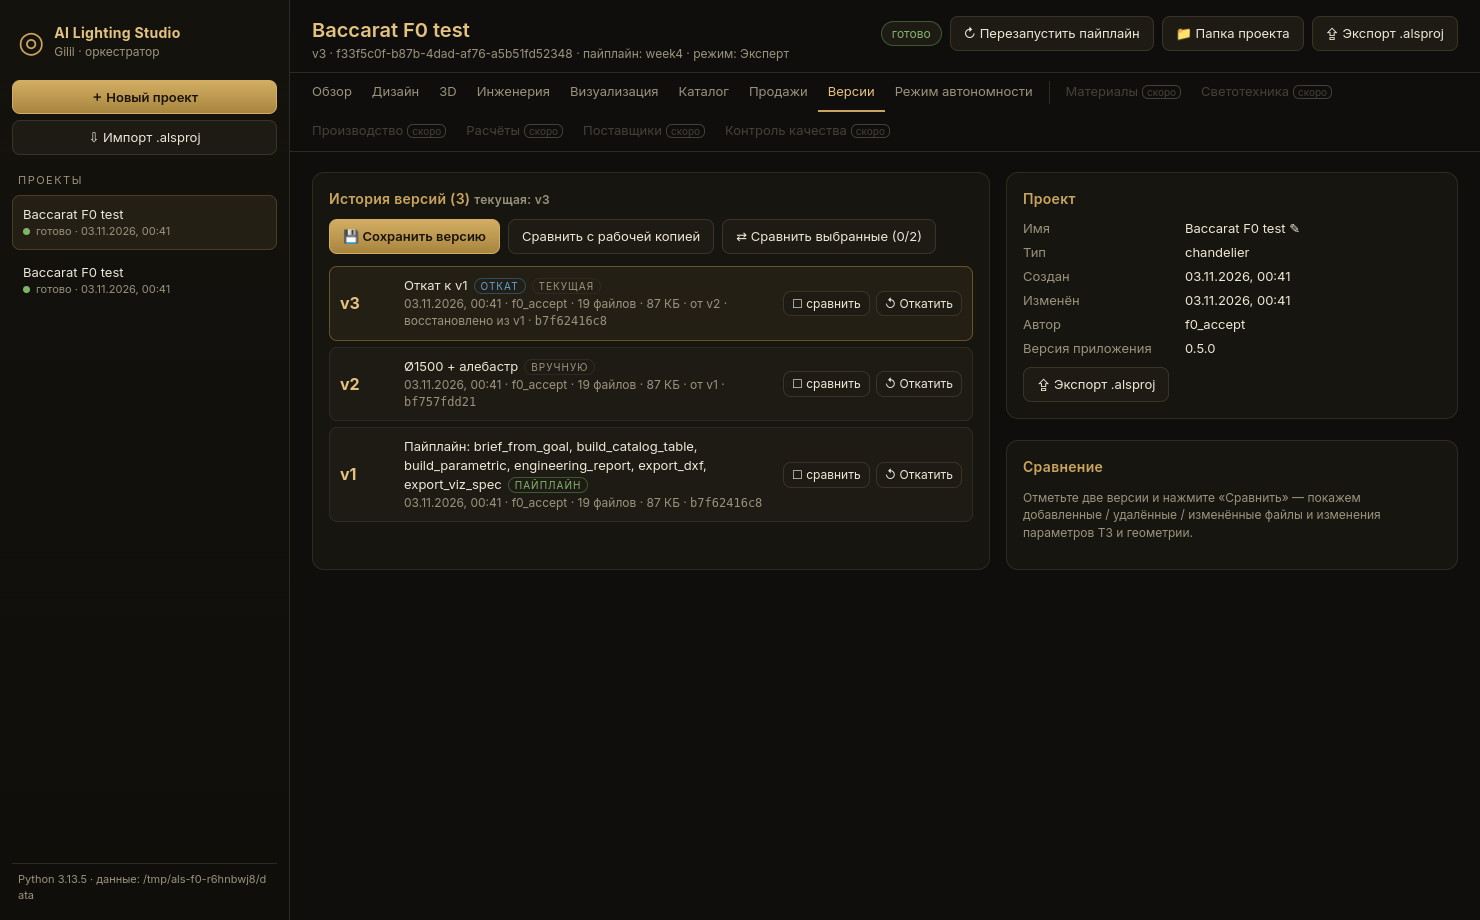
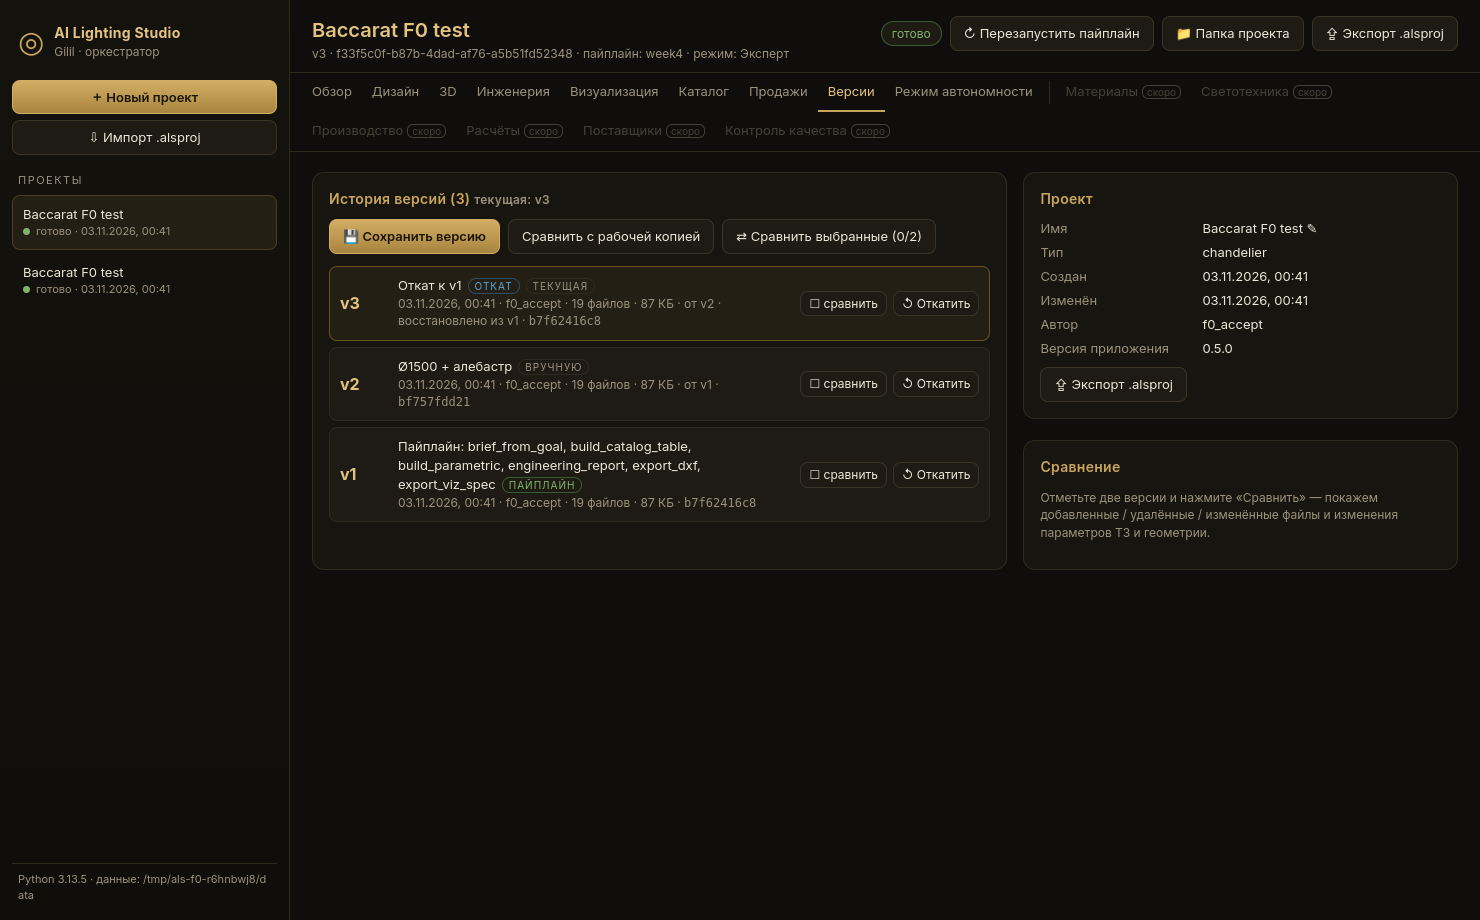
F0: docs, screenshots

diff --git a/README.md b/README.md
@@ -65,3 +65,22 @@ python3 -m venv .venv && .venv/bin/pip install -r requirements.txt
 Сборка Windows: `cd desktop && npm install && scripts/prep-python-win.sh && npm run dist` → `desktop/dist/AI-Lighting-Studio-<ver>-portable.exe`.
 В exe вшит embeddable CPython 3.13 (Windows x64) + колёса win_amd64 из `requirements.txt` → тот же Python-пайплайн, без установки Python. Данные на Windows: `%APPDATA%\AI Lighting Studio\data`.
 Скриншоты: `desktop/screens/*.png` (режим `ALS_SCREENSHOTS=<dir>`).
+
+## Ф0: проекты с версиями, установщик, CI (v0.5.0)
+
+**Раскладка проекта** `data/projects/<id>/` (`ALS_DATA_DIR` переопределяет `data/`):
+`project.json` (id, name, created_at, updated_at, current_version, fixture_type, author, app_version) ·
+`versions/vN/files/…` неизменяемый снимок + `versions/vN/manifest.json` (sha256/size на файл, parent, message, timestamp, kind, restored_from, tree_sha256) ·
+остальное — рабочая копия. Индекс: таблицы `als_project_meta`, `als_project_versions` в `projects.db` (создаются `IF NOT EXISTS`, старые таблицы не трогаются; старые проекты получают `project.json` при первом обращении).
+
+- Пайплайн, завершившийся `done`, сам создаёт версию (`kind=pipeline`, без дублей).
+- Откат (`checkout`) восстанавливает рабочую копию из vN и создаёт **новую** версию (`kind=rollback`), история не удаляется.
+- `.alsproj` — zip: `alsproj.json` (метаданные, версии, строка оркестратора, артефакты) + `project/…`; при импорте проверяются sha256 всех снимков; занятый id → новый id.
+
+CLI: `python -m projects list|create|show|rename|save -m|log|diff A [B]|checkout N|verify N|export ID DIR|import FILE`.
+stdio-бэкенд: `save_version, list_versions, checkout_version, diff_versions, export_project, import_project, rename_project, verify_version`.
+UI: вкладка **«Версии»** (история, «Сохранить версию», «Откатить», «Сравнить», переименование), кнопки «Экспорт/Импорт .alsproj».
+Приёмка: `.venv/bin/python scripts/f0_accept.py` → `ACCEPT_F0_PROJECTS=PASS`.
+
+**Установщик:** `desktop/installer/als.iss` (Inno Setup 6: Program Files, ярлыки меню Пуск/рабочего стола, деинсталлятор, RU+EN, иконка, ассоциация .alsproj; данные — `%APPDATA%\AI Lighting Studio\data`). Также NSIS в `package.json` (`npm run dist:all`, только Windows/wine).
+**CI:** `.github/workflows/build-windows.yml` — windows-latest: приёмка → embedded Python → `npm ci` → portable+NSIS+dir → Inno Setup → artifacts → (опц.) Google Drive через `scripts/upload_drive.py` (секреты `GDRIVE_SA_JSON`, `GDRIVE_FOLDER_ID`).
